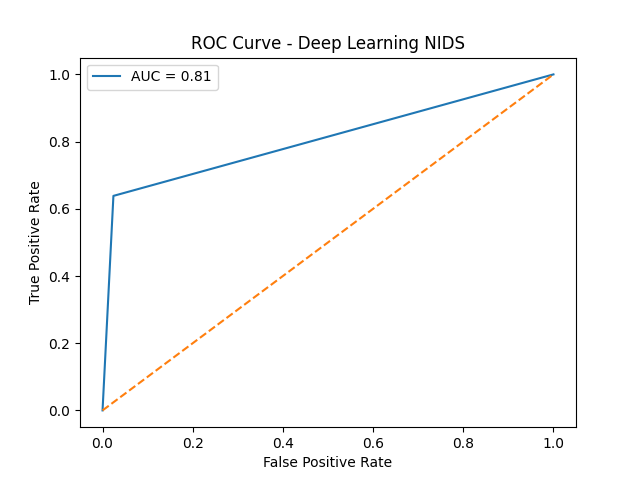
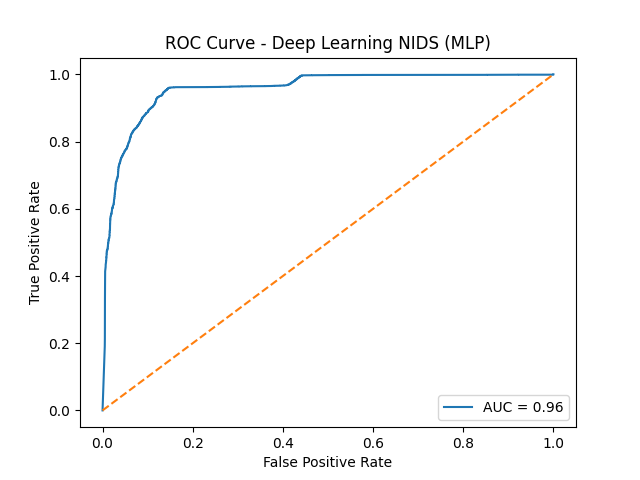
added cnn on kdd with shap and lime and comparison with mlp

diff --git a/deep_learning_nids.py b/deep_learning_nids.py
@@ -2,211 +2,276 @@ import pandas as pd
 import numpy as np
 import time
 from sklearn.preprocessing import LabelEncoder, StandardScaler
-from sklearn.metrics import accuracy_score, precision_score, recall_score, f1_score
-from sklearn.model_selection import train_test_split
-from tensorflow.keras.models import Sequential
-from tensorflow.keras.layers import Dense, Dropout
-from tensorflow.keras.optimizers import Adam
+from sklearn.metrics import accuracy_score, precision_score, recall_score, f1_score, confusion_matrix, roc_curve, auc
 import matplotlib.pyplot as plt
 import seaborn as sns
-from sklearn.metrics import confusion_matrix
-from sklearn.metrics import roc_curve, auc 
+from tensorflow.keras.models import Sequential
+from tensorflow.keras.layers import Dense, Dropout, Conv1D, Flatten
+from tensorflow.keras.optimizers import Adam
 import shap
-from lime.lime_tabular import LimeTabularExplainer  #adding only one explanation of lime to not overcomplicate
+from lime.lime_tabular import LimeTabularExplainer
 
 print("Loading NSL-KDD dataset...")
 
 train_path = "datasets/KDDTrain+.txt"
 test_path = "datasets/KDDTest+.txt"
 
-
 columns = [
-"duration","protocol_type","service","flag","src_bytes","dst_bytes","land","wrong_fragment",
-"urgent","hot","num_failed_logins","logged_in","num_compromised","root_shell","su_attempted",
-"num_root","num_file_creations","num_shells","num_access_files","num_outbound_cmds",
-"is_host_login","is_guest_login","count","srv_count","serror_rate","srv_serror_rate",
-"rerror_rate","srv_rerror_rate","same_srv_rate","diff_srv_rate","srv_diff_host_rate",
-"dst_host_count","dst_host_srv_count","dst_host_same_srv_rate","dst_host_diff_srv_rate",
-"dst_host_same_src_port_rate","dst_host_srv_diff_host_rate","dst_host_serror_rate",
-"dst_host_srv_serror_rate","dst_host_rerror_rate","dst_host_srv_rerror_rate",
-"label","difficulty"
+    "duration", "protocol_type", "service", "flag", "src_bytes", "dst_bytes", "land", "wrong_fragment",
+    "urgent", "hot", "num_failed_logins", "logged_in", "num_compromised", "root_shell", "su_attempted",
+    "num_root", "num_file_creations", "num_shells", "num_access_files", "num_outbound_cmds",
+    "is_host_login", "is_guest_login", "count", "srv_count", "serror_rate", "srv_serror_rate",
+    "rerror_rate", "srv_rerror_rate", "same_srv_rate", "diff_srv_rate", "srv_diff_host_rate",
+    "dst_host_count", "dst_host_srv_count", "dst_host_same_srv_rate", "dst_host_diff_srv_rate",
+    "dst_host_same_src_port_rate", "dst_host_srv_diff_host_rate", "dst_host_serror_rate",
+    "dst_host_srv_serror_rate", "dst_host_rerror_rate", "dst_host_srv_rerror_rate",
+    "label", "difficulty"
 ]
 
 train = pd.read_csv(train_path, names=columns)
 test = pd.read_csv(test_path, names=columns)
 
-
 train['label'] = train['label'].apply(lambda x: 0 if x == 'normal' else 1)
 test['label'] = test['label'].apply(lambda x: 0 if x == 'normal' else 1)
 
-X_train = train.drop(['label','difficulty'], axis=1)
+X_train = train.drop(['label', 'difficulty'], axis=1)
 y_train = train['label']
 
-X_test = test.drop(['label','difficulty'], axis=1)
+X_test = test.drop(['label', 'difficulty'], axis=1)
 y_test = test['label']
 
-
-cat_cols = ['protocol_type','service','flag']
+cat_cols = ['protocol_type', 'service', 'flag']
 
 for col in cat_cols:
     le = LabelEncoder()
     X_train[col] = le.fit_transform(X_train[col])
     X_test[col] = le.transform(X_test[col])
 
-
 scaler = StandardScaler()
-
 X_train = scaler.fit_transform(X_train)
 X_test = scaler.transform(X_test)
 
-print("Training Deep Learning Model...")
+#MLP IMPLEMENTATION
+print("Training Deep Learning Model (MLP)...")
 
 start = time.time()
 
 model = Sequential()
-
 model.add(Dense(128, activation='relu', input_shape=(X_train.shape[1],)))
 model.add(Dropout(0.3))
-
 model.add(Dense(64, activation='relu'))
 model.add(Dropout(0.3))
-
 model.add(Dense(1, activation='sigmoid'))
 
-model.compile(
-    optimizer=Adam(learning_rate=0.001),
-    loss='binary_crossentropy',
-    metrics=['accuracy']
-)
+model.compile(optimizer=Adam(learning_rate=0.001), loss='binary_crossentropy', metrics=['accuracy'])
 
-model.fit(
-    X_train,
-    y_train,
-    epochs=10,
-    batch_size=256,
-    validation_split=0.1
-)
+model.fit(X_train, y_train, epochs=10, batch_size=256, validation_split=0.1)
 
 train_time = time.time() - start
 
-print("Evaluating...")
+print("Evaluating MLP...")
 
 plt.figure()
-
 plt.plot(model.history.history['loss'], label='Train Loss')
 plt.plot(model.history.history['val_loss'], label='Validation Loss')
-
-plt.title("Training vs Validation Loss")
+plt.title("Training vs Validation Loss (MLP)")
 plt.xlabel("Epoch")
 plt.ylabel("Loss")
 plt.legend()
-
 plt.savefig("results/training_loss_dl.png")
 plt.close()
 
 probs = model.predict(X_test)
 preds = (probs > 0.5).astype(int)
 
-acc = accuracy_score(y_test, preds)
-prec = precision_score(y_test, preds)
-rec = recall_score(y_test, preds)
-f1 = f1_score(y_test, preds)
+mlp_acc = accuracy_score(y_test, preds)
+mlp_prec = precision_score(y_test, preds)
+mlp_rec = recall_score(y_test, preds)
+mlp_f1 = f1_score(y_test, preds)
 
-# ROC Curve
-fpr, tpr, _ = roc_curve(y_test, preds)
-roc_auc = auc(fpr, tpr)
-
-import matplotlib.pyplot as plt
+# ROC Curve for MLP
+fpr, tpr, _ = roc_curve(y_test, probs)  
+mlp_roc_auc = auc(fpr, tpr)
 
 plt.figure()
-plt.plot(fpr, tpr, label=f"AUC = {roc_auc:.2f}")
-plt.plot([0,1],[0,1],'--')
-
+plt.plot(fpr, tpr, label=f"AUC = {mlp_roc_auc:.2f}")
+plt.plot([0, 1], [0, 1], '--')
 plt.xlabel("False Positive Rate")
 plt.ylabel("True Positive Rate")
-plt.title("ROC Curve - Deep Learning NIDS")
+plt.title("ROC Curve - Deep Learning NIDS (MLP)")
 plt.legend()
-
 plt.savefig("results/dl_roc_curve.png")
 plt.close()
 
-print("ROC-AUC:", roc_auc)
-
-print("\nResults")
-print("Accuracy:", acc)
-print("Precision:", prec)
-print("Recall:", rec)
-print("F1 Score:", f1)
+print("MLP ROC-AUC:", mlp_roc_auc)
+print("\nMLP Results")
+print("Accuracy:", mlp_acc)
+print("Precision:", mlp_prec)
+print("Recall:", mlp_rec)
+print("F1 Score:", mlp_f1)
 print("Train Time (s):", train_time)
 
-#SHAP explanation for MLP
-print("Generating SHAP explanations...")
-
+# SHAP for MLP
+print("Generating SHAP explanations for MLP...")
 sample_X = X_test[:100]
-
 explainer = shap.Explainer(model, X_train)
 shap_values = explainer(sample_X)
-
-# Summary plot
 shap.summary_plot(shap_values, sample_X, show=False)
-
 plt.savefig("results/shap_dl_summary.png")
 plt.close()
+print("SHAP summary for MLP saved.")
 
-print("SHAP summary saved.")
-
-#LIME explanation for MLP
-print("Generating LIME explanation...")
-
-from lime.lime_tabular import LimeTabularExplainer
-
-# Wrapper to convert (n,1) → (n,2)
+# LIME for MLP
+print("Generating LIME explanation for MLP...")
 def predict_proba_wrapper(X):
     probs = model.predict(X)
-    return np.hstack([1 - probs, probs])  # [P(0), P(1)]
+    return np.hstack([1 - probs, probs])
 
-explainer = LimeTabularExplainer(
-    X_train,
-    mode="classification",
-    feature_names=[f"f{i}" for i in range(X_train.shape[1])]
-)
-
-exp = explainer.explain_instance(
-    X_test[0],
-    predict_proba_wrapper,   
-    num_features=10
-)
-
+explainer = LimeTabularExplainer(X_train, mode="classification", feature_names=[f"f{i}" for i in range(X_train.shape[1])])
+exp = explainer.explain_instance(X_test[0], predict_proba_wrapper, num_features=10)
 fig = exp.as_pyplot_figure()
 fig.savefig("results/lime_dl_explanation.png")
-
 plt.close()
+print("LIME explanation for MLP saved.")
 
-print("LIME explanation saved.")
-
-results = pd.DataFrame({
+# Save MLP results
+mlp_results = pd.DataFrame({
     "Model": ["Deep Learning MLP"],
     "Dataset": ["NSL-KDD"],
-    "Accuracy": [acc],
-    "Precision": [prec],
-    "Recall": [rec],
-    "F1 Score": [f1],
+    "Accuracy": [mlp_acc],
+    "Precision": [mlp_prec],
+    "Recall": [mlp_rec],
+    "F1 Score": [mlp_f1],
+    "ROC-AUC": [mlp_roc_auc],
     "Train Time": [train_time]
 })
+mlp_results.to_csv("results/deep_learning_results.csv", index=False)
+print("\nMLP results saved to results/deep_learning_results.csv")
+
+# Confusion Matrix for MLP
 cm = confusion_matrix(y_test, preds)
-
-plt.figure(figsize=(6,5))
-sns.heatmap(cm, annot=True, fmt="d", cmap="Blues",
-            xticklabels=["Normal","Attack"],
-            yticklabels=["Normal","Attack"])
-
+plt.figure(figsize=(6, 5))
+sns.heatmap(cm, annot=True, fmt="d", cmap="Blues", xticklabels=["Normal", "Attack"], yticklabels=["Normal", "Attack"])
 plt.xlabel("Predicted")
 plt.ylabel("Actual")
-plt.title("Confusion Matrix - Deep Learning NIDS")
-
+plt.title("Confusion Matrix - Deep Learning NIDS (MLP)")
 plt.savefig("results/confusion_matrix_dl.png")
 plt.close()
 
-results.to_csv("results/deep_learning_results.csv", index=False)
+# CNN IMPLEMENTATION
+print("\nTraining CNN Model...")
+X_train_cnn = X_train.reshape(X_train.shape[0], X_train.shape[1], 1)
+X_test_cnn = X_test.reshape(X_test.shape[0], X_test.shape[1], 1)
 
-print("\nResults saved to results/deep_learning_results.csv")
+start_cnn = time.time()
+cnn_model = Sequential([
+    Conv1D(filters=64, kernel_size=3, activation='relu', input_shape=(X_train.shape[1], 1)),
+    Dropout(0.3),
+    Conv1D(filters=32, kernel_size=3, activation='relu'),
+    Flatten(),
+    Dense(64, activation='relu'),
+    Dropout(0.3),
+    Dense(1, activation='sigmoid')
+])
+
+cnn_model.compile(optimizer=Adam(learning_rate=0.001), loss='binary_crossentropy', metrics=['accuracy'])
+
+history = cnn_model.fit(X_train_cnn, y_train, epochs=10, batch_size=32, validation_split=0.2)
+
+cnn_train_time = time.time() - start_cnn
+
+y_pred_prob = cnn_model.predict(X_test_cnn)
+y_pred = (y_pred_prob > 0.5).astype(int)
+
+cnn_acc = accuracy_score(y_test, y_pred)
+cnn_prec = precision_score(y_test, y_pred)
+cnn_rec = recall_score(y_test, y_pred)
+cnn_f1 = f1_score(y_test, y_pred)
+
+# ROC Curve for CNN
+fpr, tpr, _ = roc_curve(y_test, y_pred_prob)
+cnn_roc_auc = auc(fpr, tpr)
+
+plt.figure()
+plt.plot(fpr, tpr, label=f"AUC = {cnn_roc_auc:.2f}")
+plt.plot([0, 1], [0, 1], '--')
+plt.xlabel("False Positive Rate")
+plt.ylabel("True Positive Rate")
+plt.title("ROC Curve - CNN NIDS")
+plt.legend()
+plt.savefig("results/roc_curve_cnn.png")
+plt.close()
+
+print("CNN Metrics - Accuracy:", cnn_acc, "Precision:", cnn_prec, "Recall:", cnn_rec, "F1:", cnn_f1, "ROC-AUC:", cnn_roc_auc)
+
+# Confusion Matrix for CNN
+cm = confusion_matrix(y_test, y_pred)
+plt.figure(figsize=(6, 5))
+sns.heatmap(cm, annot=True, fmt="d", cmap="Blues", xticklabels=["Normal", "Attack"], yticklabels=["Normal", "Attack"])
+plt.xlabel("Predicted")
+plt.ylabel("Actual")
+plt.title("Confusion Matrix - CNN NIDS")
+plt.savefig("results/confusion_matrix_cnn.png")
+plt.close()
+
+# Training Loss for CNN
+plt.figure()
+plt.plot(history.history['loss'], label='Train Loss')
+plt.plot(history.history['val_loss'], label='Validation Loss')
+plt.title("Training vs Validation Loss (CNN)")
+plt.xlabel("Epoch")
+plt.ylabel("Loss")
+plt.legend()
+plt.savefig("results/training_loss_cnn.png")
+plt.close()
+
+# SHAP for CNN
+print("Generating SHAP explanations for CNN...")
+explainer = shap.KernelExplainer(lambda x: cnn_model.predict(x.reshape(x.shape[0], x.shape[1], 1)), X_train[:100])
+shap_values = explainer.shap_values(X_test[:50])
+shap.summary_plot(shap_values, X_test[:50], show=False)
+plt.savefig("results/shap_cnn_summary.png")
+plt.close()
+print("SHAP summary for CNN saved.")
+
+# LIME for CNN
+print("Generating LIME explanation for CNN...")
+def predict_proba_cnn(X):
+    probs = cnn_model.predict(X.reshape(X.shape[0], X.shape[1], 1))
+    return np.hstack([1 - probs, probs])
+
+explainer = LimeTabularExplainer(X_train, mode="classification", feature_names=[f"f{i}" for i in range(X_train.shape[1])])
+exp = explainer.explain_instance(X_test[0], predict_proba_cnn, num_features=10)
+fig = exp.as_pyplot_figure()
+fig.savefig("results/lime_cnn_explanation.png")
+plt.close()
+print("LIME explanation for CNN saved.")
+
+
+cnn_results = pd.DataFrame({
+    "Model": ["CNN"],
+    "Dataset": ["NSL-KDD"],
+    "Accuracy": [cnn_acc],
+    "Precision": [cnn_prec],
+    "Recall": [cnn_rec],
+    "F1 Score": [cnn_f1],
+    "ROC-AUC": [cnn_roc_auc],
+    "Train Time": [cnn_train_time]
+})
+cnn_results.to_csv("results/cnn_results.csv", index=False)
+print("CNN results saved to results/cnn_results.csv")
+
+# saving the comparison of mlp and cnn results
+print("\nModel Comparison (MLP vs CNN)...")
+df = pd.DataFrame([
+    ["MLP", mlp_acc, mlp_f1, mlp_roc_auc],
+    ["CNN", cnn_acc, cnn_f1, cnn_roc_auc]
+], columns=["Model", "Accuracy", "F1", "ROC-AUC"])
+
+df.to_csv("results/dl_model_comparison.csv", index=False)
+df.set_index("Model").plot(kind="bar")
+plt.title("Model Comparison: MLP vs CNN")
+plt.ylabel("Score")
+plt.savefig("results/dl_comparison_plot.png")
+plt.close()
+print("Comparison saved.")
